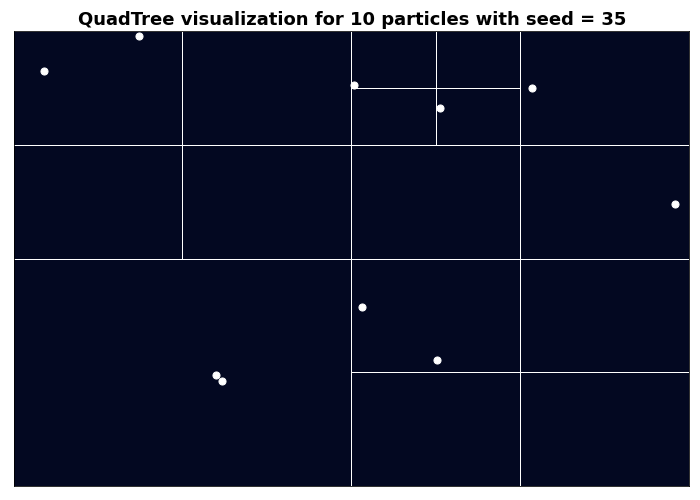
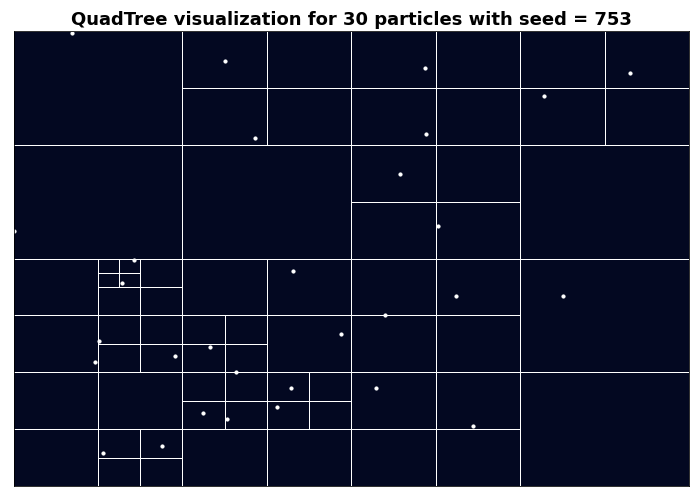
Now the QuadTree is correctly generated and only leaf nodes can contain particles. The problem with more than one particle being displayed in the same region is now solved, it was because of the insert function, it was just adding the current particle to a child node but it was not removing the part

diff --git a/integration.py b/integration.py
@@ -32,7 +32,7 @@ def create_particles(num_particles, xsize, ysize, seed) :
     np.random.seed(seed)
 
     while ii < num_particles:
-        mass = np.random.uniform(5E+4, 1E+5)
+        mass = np.random.uniform(1E+2, 9E+2)
         x = np.random.uniform(0, xsize)
         y = np.random.uniform(0, ysize)
         vx, vy = np.random.uniform(-10.0, 10.0, size = 2)
@@ -55,16 +55,16 @@ def build_quadtree(particles, x_size, y_size):
     return QuadTree
 
 #---------------------------------main method----------------------------------
-
+# # comment this main method and uncomment the methid below to visualiza the quadtree
 # if __name__ == '__main__':
 #     xsize, ysize = 800, 800
-#     NumOfParticles = 4
-#     tmax = 60
+#     NumOfParticles = 100
+#     tmax = 90
 #     Deltat = 0.1
 
 #     t0 = timeit.default_timer()#timeit
-#     #seed = int(1000*np.random.uniform())
-#     seed = 424#note that with this seed definition we are able to expand or reduce the number of particles holding some positions 
+#     seed = int(1000*np.random.uniform())
+#     #seed = 479#note that with this seed definition we are able to expand or reduce the number of particles holding some positions 
 #     particles = create_particles(NumOfParticles, xsize, ysize, seed)
 #     elapsed_particles = timeit.default_timer() - t0#timeit
 
@@ -91,7 +91,7 @@ def build_quadtree(particles, x_size, y_size):
 #         ax.set_xlim(xsize)
 #         ax.set_ylim(ysize)
 #         ax.set_title(f't = {t:.2f}')
-#         #print(f'iteration: {count}', flush = True)
+#         print(f"{100*count/(tmax/Deltat):.1f}% completed", end = "\r")
 #         filename = 'figures/gif_data/' + str(t) + '.png'
 #         filenames.append(filename)
 #         tree = build_quadtree(particles, xsize, ysize)
@@ -102,7 +102,6 @@ def build_quadtree(particles, x_size, y_size):
 #         #updates positions
 #         for particle in particles:
 #             particle.ax, particle.ay = tree.ParticleInteraction(particle)
-#             #print(particle.ax)
 #             particle.vx += particle.ax*Deltat
 #             particle.vy += particle.ay*Deltat
 #             particle.x += particle.vx*Deltat #+ 0.5*particle.ax*Deltat**2
@@ -116,23 +115,24 @@ def build_quadtree(particles, x_size, y_size):
 #         count += 1
 
 #     elapsed_sim = timeit.default_timer() - t0#timeit
-#     print(f'Simulation ended ({elapsed_sim}s) and aux figures were created. Creating .gif')
+#     print(f'Simulation ended ({elapsed_sim:.4f}s) and aux figures were created. Creating .gif')
 
 #     images = []
 #     for filename in filenames:
 #         images.append(imageio.imread(filename))
+#     #imageio.mimsave('figures/animation.gif', images)
 #     imageio.mimsave('figures/animation.gif', images, duration = 20)
 #     elapsed = timeit.default_timer() - t0#timeit
-#     print(f'.gif created. Work donde! ({elapsed}s)')
+#     print(f'.gif created. Work donde! ({elapsed:.4f}s)')
 
+# comment this main method and uncomment the method above to excecute the simulation
 if __name__ == '__main__':
     xsize, ysize = 800, 800
-    NumOfParticles = 10
+    NumOfParticles = 30
 
     t0_particle = timeit.default_timer()#timeit
     seed = int(1000*np.random.uniform())
-    #seed = 820
-    #note that with this seed definition we are able to expand or reduce the number of particles holding some positions 
+    #seed = 480 #note that with this seed definition we are able to expand or reduce the number of particles holding some positions 
     particles = create_particles(NumOfParticles, xsize, ysize, seed)
     elapsed_particles = timeit.default_timer() - t0_particle#timeit
 
@@ -160,7 +160,7 @@ if __name__ == '__main__':
     tree.draw(ax, c = 'w')
 
     #draw particles
-    ax.scatter([particle.x for particle in particles],[particle.y for particle in particles], s=50, c = 'w')
+    ax.scatter([particle.x for particle in particles],[particle.y for particle in particles], s=10, c = 'w')
     ax.invert_yaxis()
     ax.invert_xaxis()
 

diff --git a/quadtree.py b/quadtree.py
@@ -37,53 +37,72 @@ class TreeNode:
         self.StoredData = []
         self.divided = False #checks if the current node has been already divided
 
-    def insert(self, data):
-        #checks if the data is in the boundaries (rectangle of given width and height from its corner), all the 
-        #binary values are assigned to know which QuadTree the given data below
-        if not self.boundaries.ContainsData(data):
-            return False
-        
-        #checks if the node is avaliable for storing data
-        if len(self.StoredData) < self.capacity:
-            #Adds data to the StoredData list 
-            self.StoredData.append(data)
-            return True
-    
-        if not self.divided:
-            self.divide()
-
-        if self.nw.insert(data):
-            return True
-        elif self.ne.insert(data):
-            return True
-        elif self.se.insert(data):
-            return True
-        elif self.sw.insert(data):
-            return True
-        
-        #if for any reason the point is not added to any QuadTree
-        return False
-
     def divide(self):
         x_corner = self.boundaries.corner.x
         y_corner = self.boundaries.corner.y
         new_width = 0.5*self.boundaries.width
         new_height = 0.5*self.boundaries.height
 
-        #define childs
+        #divide into childs
         nw = Rectangle(Point(x_corner, y_corner + new_height), new_width, new_height)
-        self.nw = TreeNode(nw)
+        self.nw = TreeNode(nw, self.capacity)
         
         ne = Rectangle(Point(x_corner + new_width, y_corner + new_height), new_width, new_height)
-        self.ne = TreeNode(ne)
+        self.ne = TreeNode(ne, self.capacity)
         
         se = Rectangle(Point(x_corner + new_width, y_corner), new_width, new_height)
-        self.se = TreeNode(se)
+        self.se = TreeNode(se, self.capacity)
         
         sw = Rectangle(Point(x_corner, y_corner), new_width, new_height)
-        self.sw = TreeNode(sw)
+        self.sw = TreeNode(sw, self.capacity)
         
+        #set the current node as divided
         self.divided = True
+
+    def insert(self, data):
+
+        #checks if data is contanined into the region
+        if not self.boundaries.ContainsData(data):
+            return False
+
+        #if data is in the region, checks if the current node is avaliable to store more data
+        if not self.divided and len(self.StoredData) < self.capacity:
+            self.StoredData.append(data)
+            return True
+        
+        #if the node is divided, tries to add data to one of the childrens
+        if self.divided:
+            if self.nw.insert(data):
+                return True
+            elif self.ne.insert(data):
+                return True
+            elif self.se.insert(data):
+                return True
+            elif self.sw.insert(data):
+                return True
+
+        #if the node is not avaliable to store data, divide the node into its childrens
+        if not self.divided and len(self.StoredData) >= self.capacity:
+            self.divide()
+
+            #adds the current data and all the data already contained in the node to the children nodes
+            self.StoredData.append(data)
+            for elem in self.StoredData:
+                if self.nw.insert(elem):
+                    continue
+                elif self.ne.insert(elem):
+                    continue
+                elif self.se.insert(elem):
+                    continue
+                elif self.sw.insert(elem):
+                    continue
+            
+            #clears the list of the current node
+            self.StoredData.clear()
+            return True
+
+        #this condition should never be reached
+        return False
 
     def __len__(self):
         count = len(self.StoredData)
